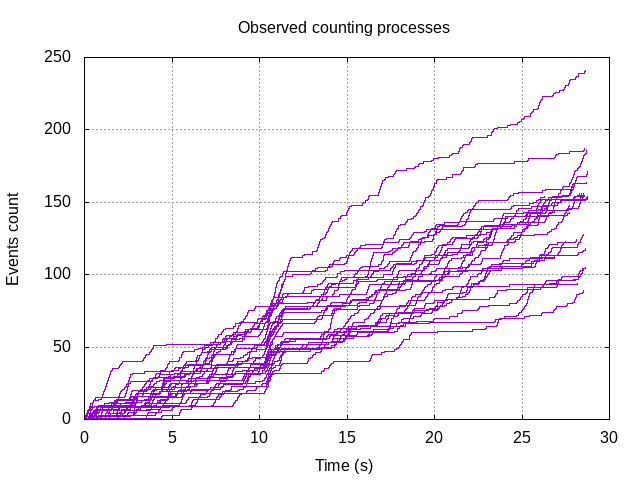
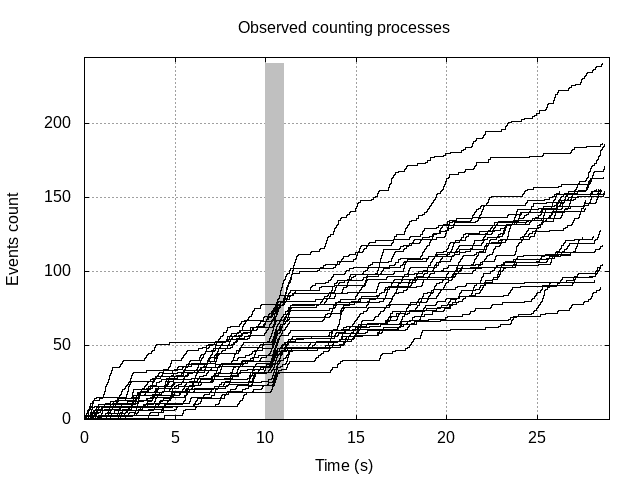
New tutorial with figures showing stim. time.

diff --git a/examples/aspa_tutorial.html b/examples/aspa_tutorial.html
@@ -3,7 +3,7 @@
 "http://www.w3.org/TR/xhtml1/DTD/xhtml1-strict.dtd">
 <html xmlns="http://www.w3.org/1999/xhtml" lang="en" xml:lang="en">
 <head>
-<!-- 2017-02-28 mar. 14:45 -->
+<!-- 2017-03-01 mer. 16:34 -->
 <meta http-equiv="Content-Type" content="text/html;charset=utf-8" />
 <meta name="viewport" content="width=device-width, initial-scale=1" />
 <title><i>Analyse des séquences de potentiels d'action</i> Tutorial</title>
@@ -272,9 +272,9 @@ for the JavaScript code in this tag.
 <li><a href="#basic-statistics">4.2. Basic statistics</a></li>
 <li><a href="#basic-plots">4.3. Basic plots</a>
 <ul>
-<li><a href="#org32e38be">4.3.1. Raster plot</a></li>
-<li><a href="#orgcbeafdc">4.3.2. A fancy trick</a></li>
-<li><a href="#org8a07681">4.3.3. Counting process plot</a></li>
+<li><a href="#org5ef7ae1">4.3.1. Raster plot</a></li>
+<li><a href="#org9e6d77f">4.3.2. A fancy trick</a></li>
+<li><a href="#org7cb31df">4.3.3. Counting process plot</a></li>
 </ul>
 </li>
 </ul>
@@ -283,8 +283,8 @@ for the JavaScript code in this tag.
 </div>
 </div>
 
-<div id="outline-container-org1a43c7e" class="outline-2">
-<h2 id="the-idea-motivating-this-development"><a id="org1a43c7e"></a><span class="section-number-2">1</span> The idea motivating this development</h2>
+<div id="outline-container-orgdc73f80" class="outline-2">
+<h2 id="the-idea-motivating-this-development"><a id="orgdc73f80"></a><span class="section-number-2">1</span> The idea motivating this development</h2>
 <div class="outline-text-2" id="text-the-idea-motivating-this-development">
 <p>
 The idea here is to implement the Unix/Linux "philosophy"&#x2013;as exposed
@@ -301,8 +301,8 @@ are going to use <a href="http://gnuplot.info/">gnuplot</a>.
 </div>
 </div>
 
-<div id="outline-container-orgd9cb1be" class="outline-2">
-<h2 id="required-software"><a id="orgd9cb1be"></a><span class="section-number-2">2</span> Required software</h2>
+<div id="outline-container-org9494561" class="outline-2">
+<h2 id="required-software"><a id="org9494561"></a><span class="section-number-2">2</span> Required software</h2>
 <div class="outline-text-2" id="text-required-software">
 <p>
 The code will be written mostly in <code>C</code>. If you want a clear and quick
@@ -327,8 +327,8 @@ For now the compilation requires either =make or <a href="http://scons.org/">Sco
 </p>
 </div>
 
-<div id="outline-container-org9cfebdc" class="outline-3">
-<h3 id="getting-and-compiling-the-code"><a id="org9cfebdc"></a><span class="section-number-3">2.1</span> Getting and compiling the code</h3>
+<div id="outline-container-org965220d" class="outline-3">
+<h3 id="getting-and-compiling-the-code"><a id="org965220d"></a><span class="section-number-3">2.1</span> Getting and compiling the code</h3>
 <div class="outline-text-3" id="text-getting-and-compiling-the-code">
 <p>
 The code is hosted on
@@ -377,8 +377,8 @@ After that, you're in business.
 </div>
 </div>
 
-<div id="outline-container-orgcdfead4" class="outline-2">
-<h2 id="data-used"><a id="orgcdfead4"></a><span class="section-number-2">3</span> Data used</h2>
+<div id="outline-container-orge611e8b" class="outline-2">
+<h2 id="data-used"><a id="orge611e8b"></a><span class="section-number-2">3</span> Data used</h2>
 <div class="outline-text-2" id="text-data-used">
 <p>
 We are going to use spike trains obtained from the antennal lobe&#x2013;first
@@ -394,8 +394,8 @@ can be found at the following address:
 </p>
 </div>
 
-<div id="outline-container-org9fa4493" class="outline-3">
-<h3 id="getting-a-spike-train"><a id="org9fa4493"></a><span class="section-number-3">3.1</span> Getting a spike train</h3>
+<div id="outline-container-orgda64331" class="outline-3">
+<h3 id="getting-a-spike-train"><a id="orgda64331"></a><span class="section-number-3">3.1</span> Getting a spike train</h3>
 <div class="outline-text-3" id="text-getting-a-spike-train">
 <p>
 We will start by downloading the spike train from unit 1 from <code>group</code>
@@ -424,13 +424,13 @@ sorting description</a> of this data set.
 </div>
 </div>
 
-<div id="outline-container-org6ee6023" class="outline-2">
-<h2 id="preliminary-analysis"><a id="org6ee6023"></a><span class="section-number-2">4</span> Preliminary analysis</h2>
+<div id="outline-container-org9a50cd0" class="outline-2">
+<h2 id="preliminary-analysis"><a id="org9a50cd0"></a><span class="section-number-2">4</span> Preliminary analysis</h2>
 <div class="outline-text-2" id="text-preliminary-analysis">
 </div>
 
-<div id="outline-container-org020dd58" class="outline-3">
-<h3 id="reading-the-data"><a id="org020dd58"></a><span class="section-number-3">4.1</span> Reading the data</h3>
+<div id="outline-container-orgcc474b3" class="outline-3">
+<h3 id="reading-the-data"><a id="orgcc474b3"></a><span class="section-number-3">4.1</span> Reading the data</h3>
 <div class="outline-text-3" id="text-reading-the-data">
 <p>
 In is not expected that the data (spike trains) one wants to work with
@@ -591,8 +591,8 @@ interactively you can type:
 </div>
 </div>
 
-<div id="outline-container-orga59c768" class="outline-3">
-<h3 id="basic-statistics"><a id="orga59c768"></a><span class="section-number-3">4.2</span> Basic statistics</h3>
+<div id="outline-container-org7cd06ed" class="outline-3">
+<h3 id="basic-statistics"><a id="org7cd06ed"></a><span class="section-number-3">4.2</span> Basic statistics</h3>
 <div class="outline-text-3" id="text-basic-statistics">
 <p>
 Program <code>aspa_mst_fns</code> (<code>mst</code> stands for "multiple spike trains" and
@@ -638,8 +638,8 @@ A 95% confidence interval for the lag 1 Spearman rank correlation is: [0.400336,
 </div>
 </div>
 
-<div id="outline-container-orgb3a5153" class="outline-3">
-<h3 id="basic-plots"><a id="orgb3a5153"></a><span class="section-number-3">4.3</span> Basic plots</h3>
+<div id="outline-container-org104efef" class="outline-3">
+<h3 id="basic-plots"><a id="org104efef"></a><span class="section-number-3">4.3</span> Basic plots</h3>
 <div class="outline-text-3" id="text-basic-plots">
 <p>
 There are several plots one might want to create at an early stage of spike train data analysis. Since these plots are more "attractive" when built from data with a response to a stimulus, we will start by getting one such case (from the same experiment and same neuron):
@@ -683,15 +683,16 @@ the 'mean' counting process is displayed).
 </pre>
 </div>
 
-<div id="outline-container-org32e38be" class="outline-4">
-<h4 id="org32e38be"><span class="section-number-4">4.3.1</span> Raster plot</h4>
+<div id="outline-container-org5ef7ae1" class="outline-4">
+<h4 id="org5ef7ae1"><span class="section-number-4">4.3.1</span> Raster plot</h4>
 <div class="outline-text-4" id="text-4-3-1">
 <p>
 Here, to get the classical raster we do:
 </p>
 
 <div class="org-src-container">
-<pre class="src src-shell">aspa_read_spike_train --inter_trial_interval=30 --trial_duration=29 &lt; \
+<pre class="src src-shell">aspa_read_spike_train --inter_trial_interval=30 --trial_duration=29 \
+--stim_onset=10 --stim_offset=11 &lt; \
 locust20010214_C3H_1_tetB_u1.txt | \
 aspa_mst_plot --what=raster
 </pre>
@@ -702,7 +703,8 @@ This will make a new window appear with a plot similar to the one we will now co
 </p>
 
 <div class="org-src-container">
-<pre class="src src-shell">aspa_read_spike_train --inter_trial_interval=30 --trial_duration=29 &lt; \
+<pre class="src src-shell">aspa_read_spike_train --inter_trial_interval=30 --trial_duration=29 \
+--stim_onset=10 --stim_offset=11 &lt; \
 locust20010214_C3H_1_tetB_u1.txt | \
 aspa_mst_plot --what=raster --text &gt; \
 locust20010214_C3H_1_tetB_u1.raster
@@ -718,7 +720,8 @@ Here instead of the "new window output" we generated at text output (that's what
 unset key
 set xlabel 'Time (s)'
 set ylabel 'Trial'
-plot 'locust20010214_C3H_1_tetB_u1.raster' using 1:2 with dots
+plot [0:30] [0:26] 'locust20010214_C3H_1_tetB_u1.raster' index 0 using 1:2 with filledcurve closed lc 'grey',\
+     '' index 1:25 using 1:2 with dots lc 'black'
 </pre>
 </div>
 
@@ -730,8 +733,8 @@ plot 'locust20010214_C3H_1_tetB_u1.raster' using 1:2 with dots
 </div>
 </div>
 
-<div id="outline-container-orgcbeafdc" class="outline-4">
-<h4 id="orgcbeafdc"><span class="section-number-4">4.3.2</span> A fancy trick</h4>
+<div id="outline-container-org9e6d77f" class="outline-4">
+<h4 id="org9e6d77f"><span class="section-number-4">4.3.2</span> A fancy trick</h4>
 <div class="outline-text-4" id="text-4-3-2">
 <p>
 We can also make the raster plot and get the basic stats printed at once with the <a href="https://www.gnu.org/software/coreutils/manual/html_node/tee-invocation.html">tee</a> command as follows:
@@ -746,15 +749,16 @@ aspa_mst_fns
 </div>
 </div>
 
-<div id="outline-container-org8a07681" class="outline-4">
-<h4 id="org8a07681"><span class="section-number-4">4.3.3</span> Counting process plot</h4>
+<div id="outline-container-org7cb31df" class="outline-4">
+<h4 id="org7cb31df"><span class="section-number-4">4.3.3</span> Counting process plot</h4>
 <div class="outline-text-4" id="text-4-3-3">
 <p>
 There are several ways to create a "counting process" plot. The first one, used mainly for checking data stationarity is building the "true" observed counting process plot, that is at each spike time the step function jumps by one unit and successive trials are shown one after the other as they <i>actually</i> occurred. This is what is specified with argument <code>cp_rt</code> to option <code>what</code>:
 </p>
 
 <div class="org-src-container">
-<pre class="src src-shell">aspa_read_spike_train --inter_trial_interval=30 --trial_duration=29 &lt; \
+<pre class="src src-shell">aspa_read_spike_train --inter_trial_interval=30 --trial_duration=29 \
+--stim_onset=10 --stim_offset=11 &lt; \
 locust20010214_C3H_1_tetB_u1.txt | \
 aspa_mst_plot --what=cp_rt
 </pre>
@@ -819,7 +823,7 @@ resulting in a plot looking like:
 </div>
 <div id="postamble" class="status">
 <p class="author">Author: Christophe Pouzat</p>
-<p class="date">Created: 2017-02-28 mar. 14:45</p>
+<p class="date">Created: 2017-03-01 mer. 16:34</p>
 <p class="validation"><a href="http://validator.w3.org/check?uri=referer">Validate</a></p>
 </div>
 </body>
